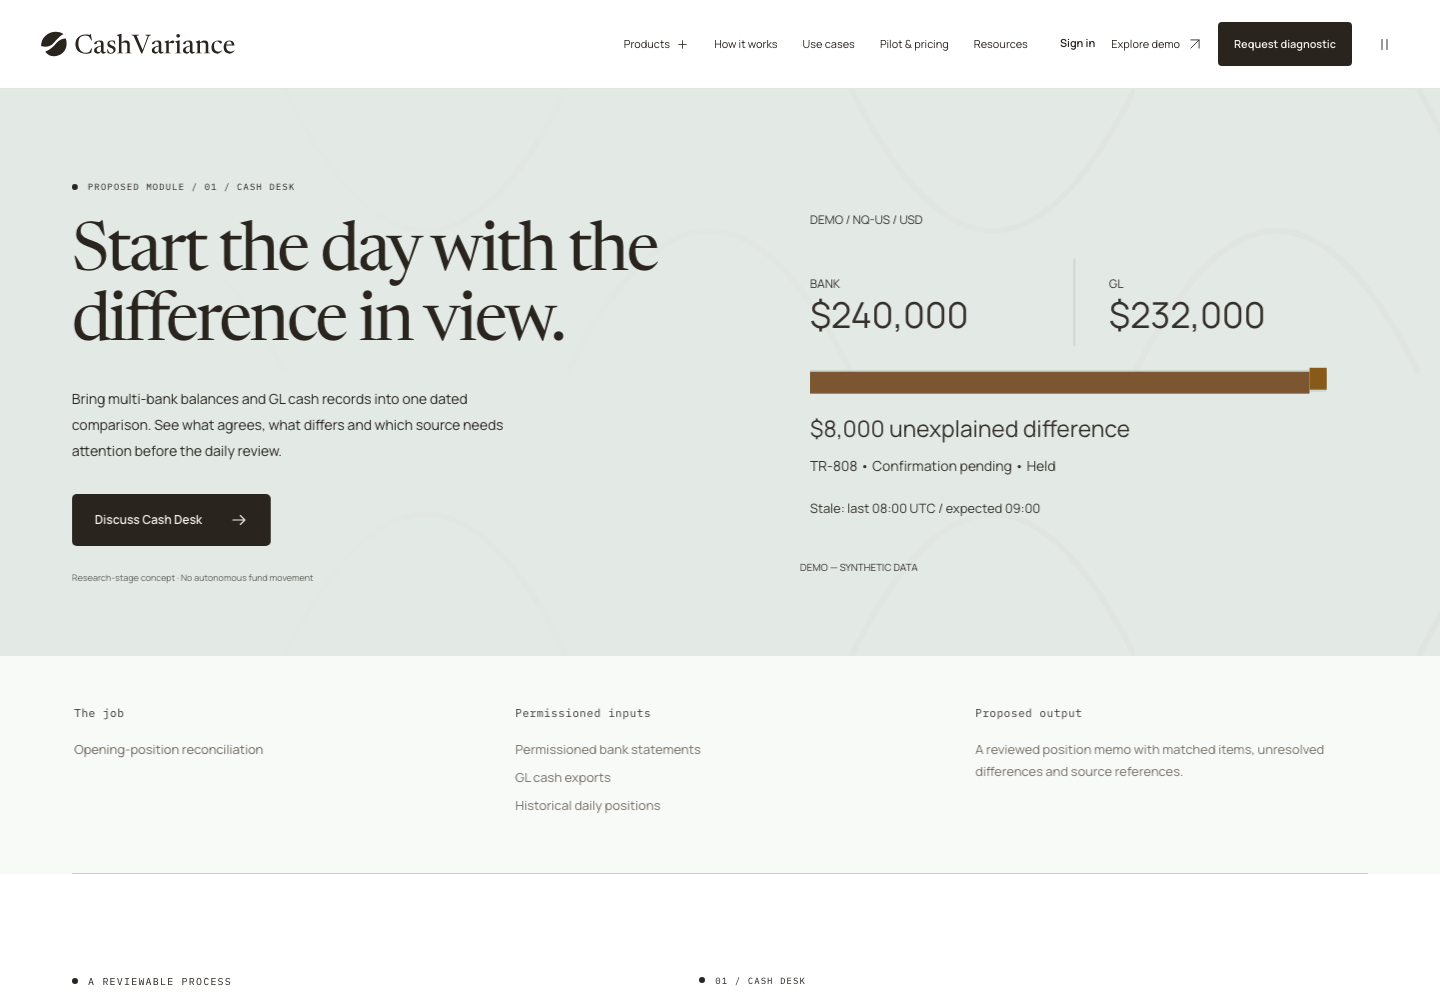
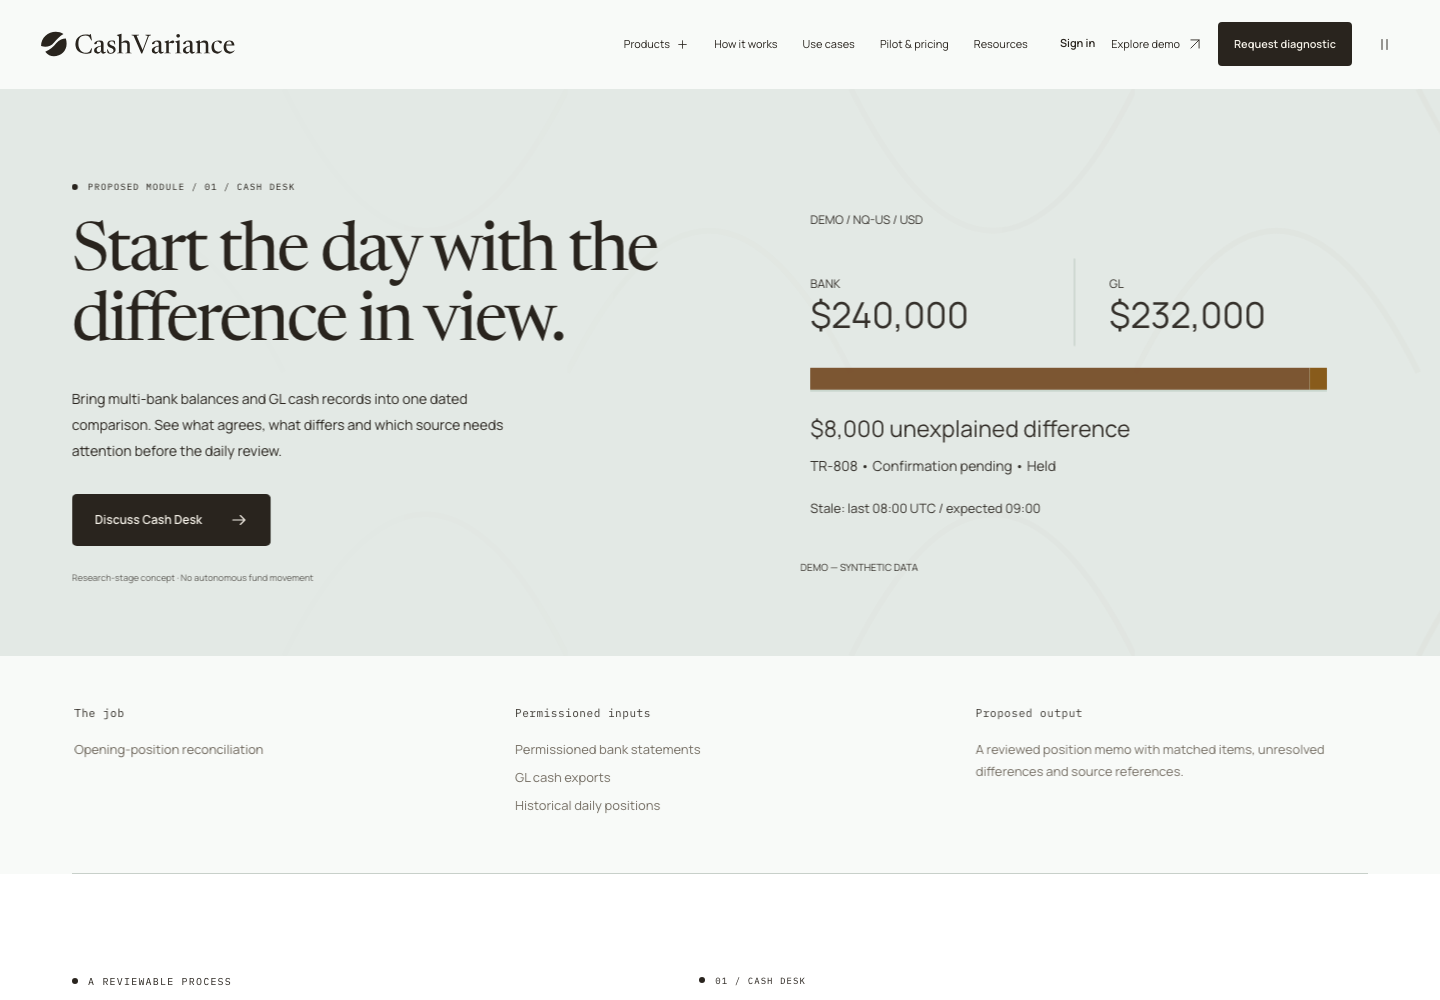
Update Site source

Changed region(s): [[0.5625, 0.341, 0.9062, 0.403], [0.6875, 0.744, 0.8125, 0.775]]

diff --git a/src/app/globals.css b/src/app/globals.css
@@ -3644,3 +3644,65 @@ body[data-paused="true"] *:after,
 .site-header[data-surface="dark"] .logo img { filter: brightness(0) invert(1); }
 .site-header[data-surface="dark"] .nav-cta { background: var(--ivory); color: var(--ink); }
 .site-header .mega-menu, .site-header .mobile-menu { color: var(--ink); }
+
+/* Hero: a three-chapter evidence sequence, with stable financial facts. */
+.hero-sequence { position: relative; perspective: 1000px; }
+.hero-source-rail { display: grid; grid-template-columns: 1fr 1fr; gap: 14px; }
+.hero-source { display: flex; gap: 10px; align-items: center; padding: 13px 12px; border: 1px solid #f6f2e954; border-radius: 8px; background: #382e2366; box-shadow: 0 6px 24px #29241e14; backdrop-filter: blur(12px); color: #fff9ef; }
+.hero-source strong { display: block; font-size: 11px; font-weight: 500; }
+.hero-source span:not(.source-marker) { display: block; margin-top: 3px; font: 8px var(--font-data); opacity: .76; }
+.source-marker { margin-left: auto; font: 9px var(--font-data); opacity: .55; }
+.hero-source-paths { width: 100%; height: 38px; display: block; overflow: visible; fill: #f0d5a8; }
+.hero-source-paths path { fill: none; stroke-width: 1.3; }
+.route-base { stroke: #f6f2e940; }
+.route-trace { stroke: #f9dfb5; stroke-dasharray: 100; stroke-dashoffset: 0; animation: hero-route 1.6s var(--ease) both; }
+.hero-evidence-frame { position: relative; transform-origin: center top; }
+.hero-evidence-frame:before, .hero-evidence-frame:after { content: ""; position: absolute; inset: 12px 8px -9px; border: 1px solid #f6f2e94d; border-radius: 14px; background: #f6f2e912; z-index: -1; }
+.hero-evidence-frame:after { inset: 24px 17px -16px; opacity: .5; }
+.hero-sequence .position-card.compact { background: #fafbf8; border: 1px solid #fff9; box-shadow: 0 28px 65px #271a2440, 0 4px 10px #271a241a; outline: none; }
+.hero-sequence .position-card .freshness, .hero-sequence .position-card .variance-row, .hero-sequence .position-card .position-owner { animation: none; }
+.hero-sequence .position-values { position: relative; overflow: hidden; }
+.hero-sequence .position-values:after { content: ""; position: absolute; inset: 10px 0; width: 22%; background: linear-gradient(90deg, transparent, #c7a56825, transparent); transform: translateX(-110%); pointer-events: none; }
+.hero-sequence .variance-row { position: relative; background: #edf1e9; border-color: #b9c9bd; transition: background .6s, border-color .6s, box-shadow .6s; }
+.hero-sequence .variance-row:after { content: ""; position: absolute; inset: -1px; border: 1px solid #a57542; border-radius: inherit; opacity: 0; pointer-events: none; }
+.hero-sequence .compact .position-owner { display: flex; padding: 12px 20px; background: #edf1e94d; transition: background .5s; }
+.hero-sequence .compact .position-record { padding: 13px 0; }
+.hero-sequence .position-foot { padding-top: 10px; padding-bottom: 10px; }
+.hero-sequence[data-chapter="0"] .source-bank { animation: hero-source-left .95s var(--ease) both; }
+.hero-sequence[data-chapter="0"] .source-gl { animation: hero-source-right .95s .16s var(--ease) both; }
+.hero-sequence[data-chapter="0"] .position-values:after { animation: hero-scan 2.8s .6s ease-in-out both; }
+.hero-sequence[data-chapter="1"] .variance-row { background: #f1e4cd; border-color: #a57542; box-shadow: 0 5px 24px #a5754229; }
+.hero-sequence[data-chapter="1"] .variance-row:after { animation: hero-delta-ring 1.6s .2s ease-out both; }
+.hero-sequence[data-chapter="1"] .variance-row strong { animation: hero-delta 1.2s var(--ease) both; transform-origin: left center; }
+.hero-sequence[data-chapter="2"] .position-owner { background: #dae6dc; box-shadow: inset 3px 0 #577460; }
+.hero-sequence[data-chapter="2"] .position-owner .avatar { animation: hero-review 1s var(--ease) both; background: #29483b; color: #fff; }
+.hero-sequence[data-chapter="2"] .position-record { animation: hero-source-left .85s var(--ease) both; }
+.hero-sequence[data-chapter="2"] .tag-held { animation: hero-review 1s .2s var(--ease) both; }
+.hero-chapters { display: grid; grid-template-columns: repeat(3, 1fr); gap: 10px; margin-top: 31px; padding: 12px; border: 1px solid #f6f2e933; border-radius: 8px; background: #30271f8c; backdrop-filter: blur(12px); }
+.hero-chapters button { position: relative; text-align: left; border: 0; border-top: 1px solid #f6f2e966; background: transparent; color: #f6f2e9ba; padding: 10px 0 6px; font: 10px/1.45 var(--font-body); }
+.hero-chapters button[aria-pressed="true"] { color: #fff9ef; }
+.hero-chapters button:hover { color: #fff; background: #ffffff0c; }
+.hero-chapter-number { display: block; font: 9px var(--font-data); margin-bottom: 5px; opacity: .8; color: inherit; }
+.chapter-progress { position: absolute; height: 2px; background: #f9deb0; left: 0; right: 0; top: -1px; transform-origin: left; animation: hero-chapter-progress 4.8s linear both; }
+.hero-chapter-note { font-size: 10px; line-height: 1.55; color: #f6f2e9da; min-height: 31px; margin: 10px 0 0; }
+.hero-sequence[data-playing="false"] *, body[data-paused="true"] .hero-sequence * { animation: none !important; }
+.hero-sequence[data-playing="false"] .chapter-progress { transform: scaleX(1); }
+@keyframes hero-route { from { stroke-dashoffset: 100; } to { stroke-dashoffset: 0; } }
+@keyframes hero-source-left { from { transform: translateX(-14px); } to { transform: translateX(0); } }
+@keyframes hero-source-right { from { transform: translateX(14px); } to { transform: translateX(0); } }
+@keyframes hero-scan { from { transform: translateX(-110%); } to { transform: translateX(550%); } }
+@keyframes hero-delta { 0% { transform: scale(.97); } 45% { transform: scale(1.035); } 100% { transform: scale(1); } }
+@keyframes hero-delta-ring { 0% { opacity: .8; transform: scale(1); } 100% { opacity: 0; transform: scale(1.06, 1.2); } }
+@keyframes hero-review { 0% { transform: scale(.88); } 55% { transform: scale(1.08); } 100% { transform: scale(1); } }
+@keyframes hero-chapter-progress { from { transform: scaleX(0); } to { transform: scaleX(1); } }
+@media (max-width: 900px) {
+  .hero-source { padding: 10px 8px; gap: 6px; }
+  .hero-source strong { font-size: 9px; }
+  .hero-source span:not(.source-marker) { font-size: 7px; }
+  .source-marker { display: none; }
+  .hero-chapters button { font-size: 9px; }
+  .hero-sequence .compact .position-owner { padding: 12px; }
+}
+@media (prefers-reduced-motion: reduce) {
+  .hero-sequence * { animation: none !important; transition: none !important; }
+}

diff --git a/src/components/HeroSequence.tsx b/src/components/HeroSequence.tsx
@@ -1,0 +1,68 @@
+"use client";
+
+import { ReactNode, useContext, useEffect, useRef, useState } from "react";
+import { motion } from "motion/react";
+import { Icon, MotionContext } from "./Primitives";
+
+const chapters = [
+  { title: "Compare sources", note: "Two dated records. One cash position." },
+  { title: "Trace the difference", note: "$240,000 − $232,000 = $8,000 unexplained." },
+  { title: "Hold for review", note: "Confirmation pending. No journal or payment sent." },
+];
+
+export function HeroSequence({ children }: { children: ReactNode }) {
+  const { paused } = useContext(MotionContext);
+  const ref = useRef<HTMLDivElement>(null);
+  const [chapter, setChapter] = useState(0);
+  const [cycle, setCycle] = useState(0);
+  const [visible, setVisible] = useState(false);
+  const [hidden, setHidden] = useState(false);
+  const [focused, setFocused] = useState(false);
+  const playing = !paused && visible && !hidden && !focused;
+
+  useEffect(() => {
+    const observer = new IntersectionObserver(([entry]) => setVisible(entry.isIntersecting), { threshold: .15 });
+    if (ref.current) observer.observe(ref.current);
+    const visibility = () => setHidden(document.hidden);
+    visibility();
+    document.addEventListener("visibilitychange", visibility);
+    return () => { observer.disconnect(); document.removeEventListener("visibilitychange", visibility); };
+  }, []);
+  useEffect(() => {
+    if (!playing) return;
+    const timer = window.setTimeout(() => {
+      setChapter(value => (value + 1) % chapters.length);
+      setCycle(value => value + 1);
+    }, 4800);
+    return () => clearTimeout(timer);
+  }, [playing, chapter, cycle]);
+
+  return (
+    <div ref={ref} className="hero-sequence" data-chapter={chapter} data-playing={playing}
+      onFocusCapture={() => setFocused(true)}
+      onBlurCapture={event => { if (!event.currentTarget.contains(event.relatedTarget)) setFocused(false); }}>
+      <div className="hero-source-rail" aria-label="Read-only source records">
+        <div className="hero-source source-bank"><Icon name="bank" size={17} /><div><strong>Bank statement</strong><span>••2317 / 08:00 UTC</span></div><span className="source-marker">01</span></div>
+        <div className="hero-source source-gl"><Icon name="ledger" size={17} /><div><strong>General ledger</strong><span>GL-61 / READ ONLY</span></div><span className="source-marker">02</span></div>
+      </div>
+      <svg className="hero-source-paths" viewBox="0 0 440 46" preserveAspectRatio="none" aria-hidden="true">
+        <path className="route-base" d="M105 0V16Q105 24 113 24H212Q220 24 220 32V46M335 0V16Q335 24 327 24H228Q220 24 220 32" />
+        <path key={cycle} className="route-trace" pathLength="100" d="M105 0V16Q105 24 113 24H212Q220 24 220 32V46M335 0V16Q335 24 327 24H228Q220 24 220 32" />
+        <circle cx="220" cy="24" r="3" />
+      </svg>
+      <motion.div className="hero-evidence-frame" initial={false}
+        animate={playing ? { y: [5, 0], rotateX: [1.5, 0] } : { y: 0, rotateX: 0 }}
+        transition={{ duration: .9, ease: [.22, 1, .36, 1] }}>
+        {children}
+      </motion.div>
+      <div className="hero-chapters" role="group" aria-label="Illustrative reconciliation sequence">
+        {chapters.map((item, index) => <button type="button" key={item.title}
+          aria-pressed={chapter === index} onClick={() => { setChapter(index); setCycle(value => value + 1); }}>
+          <span className="hero-chapter-number">0{index + 1}</span><span>{item.title}</span>
+          {chapter === index && <i key={cycle} className="chapter-progress" aria-hidden="true" />}
+        </button>)}
+      </div>
+      <p className="hero-chapter-note">{chapters[chapter].note}</p>
+    </div>
+  );
+}

diff --git a/src/components/Home.tsx b/src/components/Home.tsx
@@ -1,5 +1,6 @@
 "use client";
 import Link from "next/link";
+import { HeroSequence } from "./HeroSequence";
 import { track } from "./Analytics";
 import { useContext, useEffect, useRef, useState } from "react";
 import { motion, AnimatePresence, useScroll, useTransform } from "motion/react";
@@ -135,20 +136,15 @@ function HomeHero() {
             Research-stage concept · No autonomous fund movement
           </div>
         </div>
-        <motion.div
-          className="hero-product"
-          initial={false}
-          animate={paused ? {} : { y: [0, -6, 0] }}
-          transition={{ duration: 8, repeat: Infinity, ease: "easeInOut" }}
-        >
+        <div className="hero-product">
           <div className="hero-product-label">
             <span className="tiny-dot" /> A closer look at the daily close
           </div>
-          <PositionCard compact />
+          <HeroSequence><PositionCard compact /></HeroSequence>
           <Link href="/demo" className="product-caption">
             Follow the $8,000 difference <Icon name="arrow" size={16} />
           </Link>
-        </motion.div>
+        </div>
         <a className="scroll-cue" href="#the-difference">
           <span>Scroll to see the evidence</span>
           <span>↓</span>

diff --git a/qa/QA-REPORT.md b/qa/QA-REPORT.md
@@ -41,3 +41,7 @@ The five-offer explorer pins only when its full content fits beneath the header.
 
 ### Cash Proof diagram label clearance — 14 October 2026
 Recomposed the shared SVG with a separate result-label column, receipt assumption above the paths, and two-line inputs beneath. Removed the native SVG hover tooltip while retaining an accessible description. Paths animate without moving labels. Production build passed; geometric checks at 1440, 775 and 390px on both homepage and product page found no path/text collisions (5-unit clearance), text clipping, or tooltip. Reviewed the mobile capture.
+
+### Hero reconciliation sequence — 14 October 2026
+Replaced the floating-only hero card with three timed chapters: compare source records, trace the $8,000 variance, and hold for reviewer confirmation. Added source tiles, animated converging paths, a comparison scan, variance emphasis, reviewer emphasis, layered card framing, and selectable chapter controls. Financial values, stale warning, synthetic labels, and held status remain visible and unchanged. Motion suspends offscreen, in a hidden tab, during keyboard interaction, with global pause, and for reduced motion.
+Production build passed. All 16 focused checks passed at desktop, 775px, 390px and 320px; reviewed desktop and mobile captures. Full site suite passed 94 checks across 25 routes.
